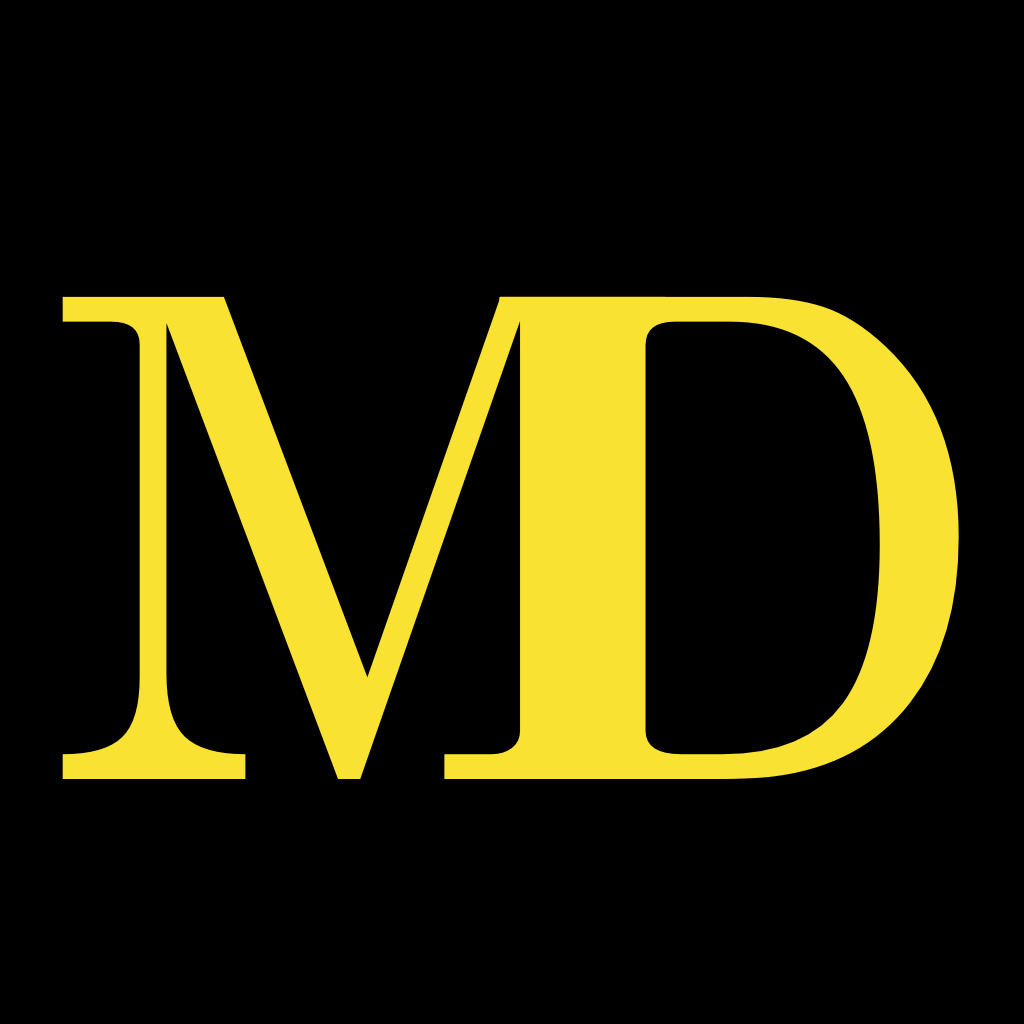
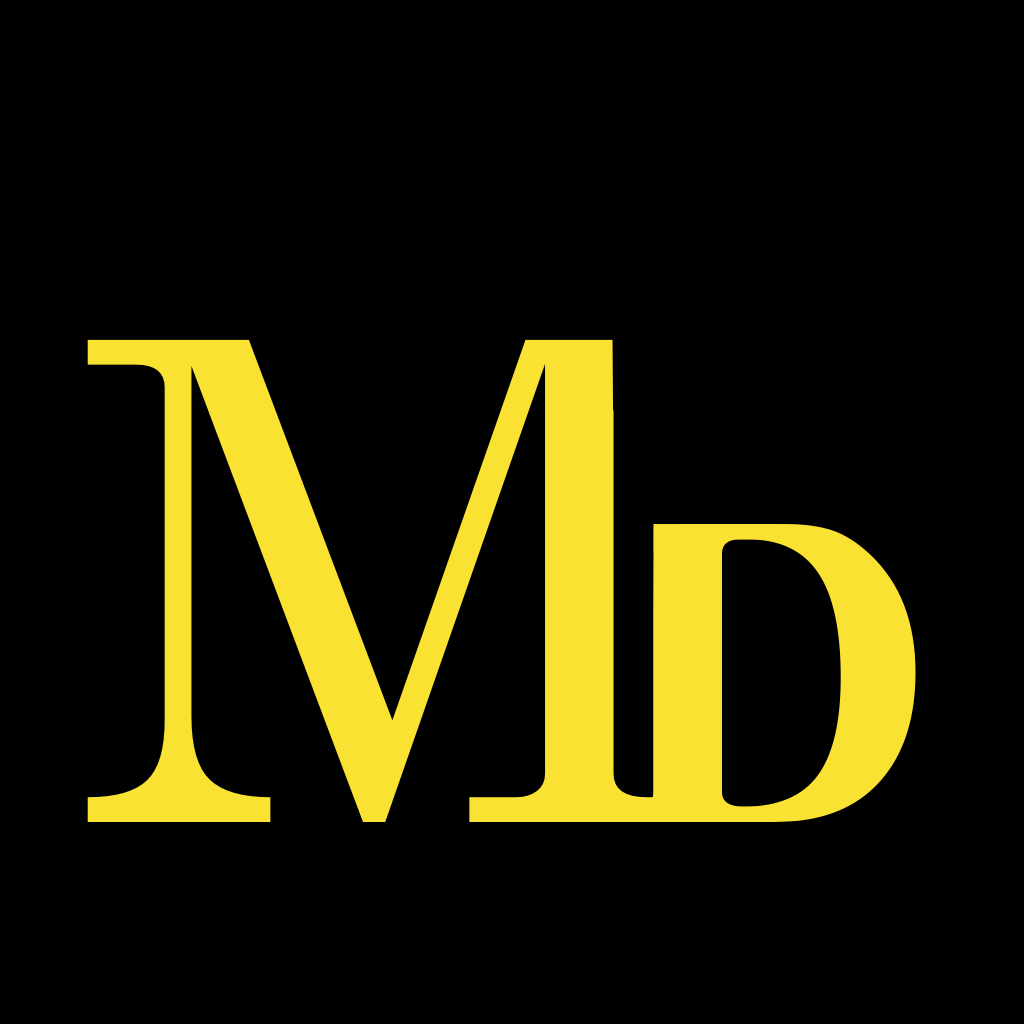
Icono nuevo («Md» amarillo sobre negro) y documentación al día
Resources/marcus.{icns,png} reemplazados por el diseño nuevo de my.docs.
README: Fase 2 completa y funcionalidades de v0.3.0 (exportación, i18n,
temas). DEPLOY: estado actual con releases etiquetadas. dist/ regenerado
con el icono nuevo.

diff --git a/DEPLOY.md b/DEPLOY.md
@@ -7,9 +7,11 @@ notarizada con Sparkle para actualizaciones; el App Store se evaluará después.
 
 ## Estado actual
 
-Durante las Fases 0–1 no hay releases públicas. El binario se construye con
-SwiftPM y el Info.plist va embebido en el ejecutable, así que para desarrollo
-basta con:
+Hay releases etiquetadas (última: v0.3.0) con `.app` y `.dmg` firmados
+ad-hoc — usables en la máquina donde se compilan, pero todavía no aptas para
+distribución pública sin fricción (ver "Pendiente"). El binario se construye
+con SwiftPM y el Info.plist va embebido en el ejecutable, así que para
+desarrollo basta con:
 
 ```sh
 swift build -c release
@@ -48,8 +50,8 @@ notarización (ver "Pendiente").
 
 ## Pendiente (antes de la primera release pública)
 
-Estos pasos se documentarán en detalle cuando toquen (previsiblemente al
-final de la Fase 2):
+Con la Fase 2 cerrada, este es el siguiente bloque de trabajo de
+distribución; se documentará en detalle cuando toque:
 
 - **Firma**: certificado Developer ID Application y `codesign` con hardened
   runtime. Requiere migrar de Info.plist embebido a bundle real firmado

diff --git a/README.md b/README.md
@@ -11,7 +11,8 @@ Nothing else.
 
 ## Status
 
-Under active development — **Phase 2 (preview & export)**. See the
+Under active development — **Phase 2 (preview & export) is complete
+(v0.3.0)**; next up is Phase 3 (navigation & productivity). See the
 [ROADMAP](ROADMAP.md) for detailed status and technical decisions; the vision
 and manifesto live in
 [my.docs/Plan_de_Implementacion_Marcus.md](my.docs/Plan_de_Implementacion_Marcus.md)
@@ -27,6 +28,14 @@ What already works:
 - Native preview (⌘⇧P): reading typography rendered with
   `swift-markdown` + TextKit — no web views. Parsing runs in the background;
   editing never waits. Side-panel or full-window mode (Settings, ⌘,).
+- Export as HTML (⌘⇧E): a single self-contained file — embedded CSS with
+  light/dark support, local images inlined as data URIs, no scripts.
+- Export as PDF and Print (⌘P): paginated output laid out by an on-demand
+  `WKWebView` used purely as a layout engine (JavaScript disabled, never on
+  the editing path).
+- Localized UI — English and Spanish — following the system language.
+- Editor themes: System (follows appearance), Sepia, and Midnight
+  (Settings, ⌘,).
 - Find & replace with the native find bar; undo/redo tied to document state.
 - External-change detection: silent reload when there are no unsaved edits,
   a clear choice when there are.

diff --git a/CHANGELOG.md b/CHANGELOG.md
@@ -50,6 +50,8 @@ UI localizada (inglés y español) y temas del editor.
 
 ### Cambiado
 
+- Nuevo icono de la aplicación («Md» en serifa amarilla sobre negro):
+  `Resources/marcus.icns` y `Resources/marcus.png` (logo del README).
 - README reescrito en inglés y actualizado al estado de la Fase 2.
 
 ## [0.2.0] - 2026-07-03